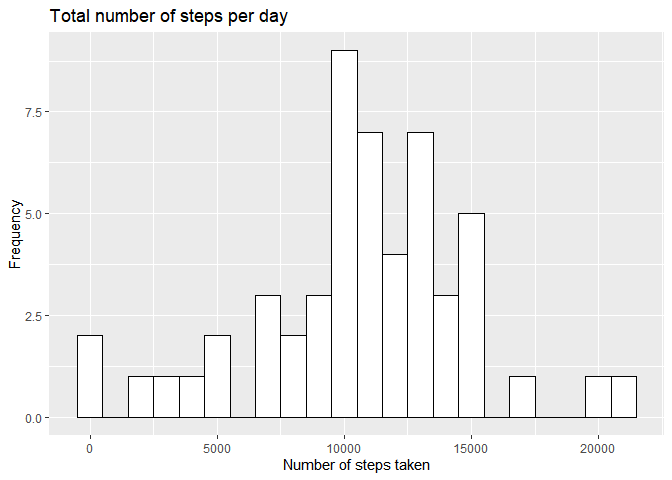
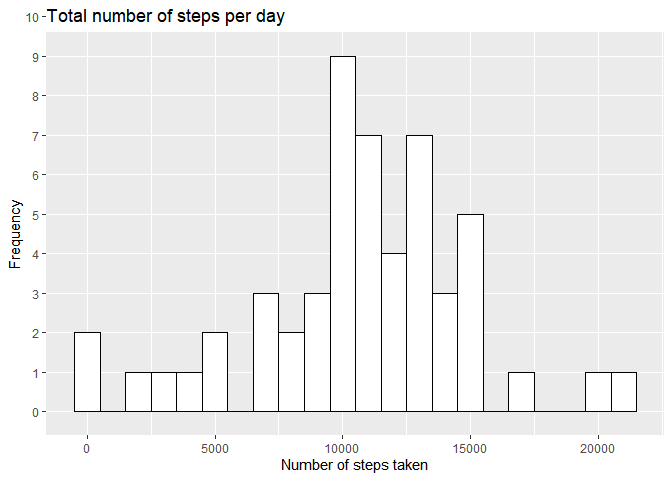
Added new lines after images, and uploaded images and hmtl files.

diff --git a/PA1_template.html b/PA1_template.html
@@ -409,22 +409,8 @@ measurement was taken. 3. interval (numeric), the time in the format
 HHMM<br />
 The interval column is used to extract the time, and this is combined
 with the date to create a datetime value.</p>
-<pre class="r"><code>stepsdf %&gt;%
+<pre class="r"><code>stepsdf &lt;- stepsdf %&gt;%
     mutate(datetime = date + hours((interval - (interval %% 100)) / 100) + minutes(interval %% 100))</code></pre>
-<pre><code>## # A tibble: 17,568 × 4
-##    steps date       interval datetime           
-##    &lt;dbl&gt; &lt;date&gt;        &lt;dbl&gt; &lt;dttm&gt;             
-##  1    NA 2012-10-01        0 2012-10-01 00:00:00
-##  2    NA 2012-10-01        5 2012-10-01 00:05:00
-##  3    NA 2012-10-01       10 2012-10-01 00:10:00
-##  4    NA 2012-10-01       15 2012-10-01 00:15:00
-##  5    NA 2012-10-01       20 2012-10-01 00:20:00
-##  6    NA 2012-10-01       25 2012-10-01 00:25:00
-##  7    NA 2012-10-01       30 2012-10-01 00:30:00
-##  8    NA 2012-10-01       35 2012-10-01 00:35:00
-##  9    NA 2012-10-01       40 2012-10-01 00:40:00
-## 10    NA 2012-10-01       45 2012-10-01 00:45:00
-## # … with 17,558 more rows</code></pre>
 </div>
 <div id="what-is-mean-total-number-of-steps-taken-per-day" class="section level2">
 <h2>What is mean total number of steps taken per day?</h2>
@@ -436,9 +422,11 @@ names(steps_per_day) &lt;- c(&quot;Date&quot;, &quot;Total_steps&quot;)</code></
 of steps taken on that day.<br />
 Now we will use ggplot to create a histogram:</p>
 <pre class="r"><code>g &lt;- ggplot(steps_per_day, aes(x = Total_steps))
-g + geom_histogram(binwidth = 1000, color = &#39;black&#39;, fill = &#39;white&#39;) + labs(title = &#39;Total number of steps per day&#39;, x = &#39;Number of steps taken&#39;, y = &#39;Frequency&#39;)</code></pre>
+g + geom_histogram(binwidth = 1000, color = &#39;black&#39;, fill = &#39;white&#39;) + scale_y_discrete(limits = seq(0, 10)) + labs(title = &#39;Total number of steps per day&#39;, x = &#39;Number of steps taken&#39;, y = &#39;Frequency&#39;)</code></pre>
+<pre><code>## Warning: Continuous limits supplied to discrete scale.
+## ℹ Did you mean `limits = factor(...)` or `scale_*_continuous()`?</code></pre>
 <pre><code>## Warning: Removed 8 rows containing non-finite values (`stat_bin()`).</code></pre>
[2 lines of base64/hex data omitted]
 <p>Next, we will calculate the mean and median number of total steps
 taken per day (so the sum of all steps taken daily).</p>
 <pre class="r"><code>cat(&#39;Mean:   &#39;, mean(steps_per_day$Total_steps, na.rm = TRUE), &quot;\n&quot;)</code></pre>
@@ -448,13 +436,91 @@ taken per day (so the sum of all steps taken daily).</p>
 </div>
 <div id="what-is-the-average-daily-activity-pattern" class="section level2">
 <h2>What is the average daily activity pattern?</h2>
+<pre class="r"><code>steps_per_interval &lt;- aggregate(stepsdf$steps, by=list(stepsdf$interval), mean, na.rm = TRUE)
+names(steps_per_interval) &lt;- c(&quot;Interval&quot;, &quot;Avg_steps&quot;)
+steps_per_interval &lt;- steps_per_interval %&gt;%
+    mutate(time = strptime((Interval - (Interval %% 100)) / 100, format = &quot;%H&quot;) + (Interval %% 100 * 60))
+
+g &lt;- ggplot(steps_per_interval, aes(x = time, y = Avg_steps))
+g + geom_line() + labs(title = &#39;Average number of steps by time of day&#39;, x = &#39;Time&#39;, y = &#39;Average number of steps&#39;) + scale_x_datetime(date_labels = &quot;%H:%M&quot;)</code></pre>
[1 lines of base64/hex data omitted]
 </div>
 <div id="imputing-missing-values" class="section level2">
 <h2>Imputing missing values</h2>
+<p>First we must identify how many missing values are present in the
+dataset:</p>
+<pre class="r"><code>str(stepsdf) # This indicates that date and interval are system/device generated, so they are unlikely to be missing </code></pre>
+<pre><code>## tibble [17,568 × 4] (S3: tbl_df/tbl/data.frame)
+##  $ steps   : num [1:17568] NA NA NA NA NA NA NA NA NA NA ...
+##  $ date    : Date[1:17568], format: &quot;2012-10-01&quot; &quot;2012-10-01&quot; ...
+##  $ interval: num [1:17568] 0 5 10 15 20 25 30 35 40 45 ...
+##  $ datetime: POSIXct[1:17568], format: &quot;2012-10-01 00:00:00&quot; &quot;2012-10-01 00:05:00&quot; ...</code></pre>
+<pre class="r"><code>table(is.na(stepsdf)) # 2304 missing values in 50400 total data points</code></pre>
+<pre><code>## 
+## FALSE  TRUE 
+## 67968  2304</code></pre>
+<pre class="r"><code>table(is.na(stepsdf$steps)) # This tells us that there are indeed 2304 missing values in &#39;steps&#39;.</code></pre>
+<pre><code>## 
+## FALSE  TRUE 
+## 15264  2304</code></pre>
+<p>From the average daily activity pattern, we can see that there are
+definitely differences in what the best replacement is. We will replace
+NA’s with the rounded average number of steps in the same interval. So,
+for example, if there is a measurement missing at the interval 835, we
+would replace it with 206. To achieve this, an extra column is added to
+stepsdf which repeats the average number of steps calculated in the
+previous part. This works because the intervals are ordered and repeat
+consistently.</p>
+<pre class="r"><code>stepsdf$avg_steps_this_interval &lt;- rep(round(steps_per_interval$Avg_steps), times = nrow(stepsdf) / nrow(steps_per_interval)) </code></pre>
+<p>Now all that is left to do is replace the NA’s in <em>steps</em> with
+the (rounded) value in <em>avg_steps_this_interval</em>, and store this
+in a new dataframe (stepsdf2).</p>
+<pre class="r"><code>stepsdf2 &lt;- stepsdf %&gt;%
+    mutate(steps = coalesce(steps, avg_steps_this_interval))</code></pre>
+<div id="analysis-of-the-effect-of-imputing-missing-data-values" class="section level3">
+<h3>Analysis of the effect of imputing missing data values</h3>
+<p>This is similar to the previous section <a href="#what-is-mean-total-number-of-steps-taken-per-day">What is mean
+total number of steps taken per day?</a> <em>Create aggregate column for
+sum of steps per day</em></p>
+<pre class="r"><code>steps_per_day2 &lt;- aggregate(stepsdf2$steps, by=list(stepsdf2$date), sum)
+names(steps_per_day2) &lt;- c(&quot;Date&quot;, &quot;Total_steps&quot;)</code></pre>
+<p><em>Create a histogram</em></p>
+<pre class="r"><code>g &lt;- ggplot(steps_per_day2, aes(x = Total_steps))
+g + geom_histogram(binwidth = 1000, color = &#39;black&#39;, fill = &#39;white&#39;) + scale_y_discrete(limits = seq(0, 15)) + labs(title = &#39;Total number of steps per day&#39;, x = &#39;Number of steps taken&#39;, y = &#39;Frequency&#39;)</code></pre>
+<pre><code>## Warning: Continuous limits supplied to discrete scale.
+## ℹ Did you mean `limits = factor(...)` or `scale_*_continuous()`?</code></pre>
[1 lines of base64/hex data omitted]
+<p><em>Calculate mean and median</em></p>
+<pre class="r"><code>cat(&#39;Mean:   &#39;, mean(steps_per_day2$Total_steps, na.rm = TRUE), &quot;\n&quot;)</code></pre>
+<pre><code>## Mean:    10765.64</code></pre>
+<pre class="r"><code>cat(&#39;Median: &#39;, median(steps_per_day2$Total_steps, na.rm = TRUE))</code></pre>
+<pre><code>## Median:  10762</code></pre>
+<p>There are minor differences (without imputation we get a mean of
+10766.19 and a median of 10765), but the differences are quite small. It
+is remarkable that with imputation we get 15 days of 11000 steps, and
+without only 7. ## Are there differences in activity patterns between
+weekdays and weekends? We create a column based on date that contains
+weekend/weekday as a factor.</p>
+<pre class="r"><code>stepsdf2 &lt;- stepsdf2 %&gt;%
+    mutate(Weekday = case_when(
+        strftime(date, format = &#39;%w&#39;) %in% c(0,6) ~ &#39;weekend&#39;, 
+        strftime(date, format = &#39;%w&#39;) %in% c(seq(1,5)) ~ &#39;weekday&#39;
+    ))
+stepsdf2$Weekday &lt;- as.factor(stepsdf2$Weekday)</code></pre>
+<p>Now we create a similar plot to what is done in<a href="#what-is-the-average-daily-activity-pattern">What is the average
+daily activity pattern?</a>, but we split the resulting panels based on
+weekday.</p>
+<pre class="r"><code>steps_per_interval2 &lt;- aggregate(steps ~ interval + Weekday, data = stepsdf2, mean, na.rm = TRUE)
+steps_per_interval2 &lt;- steps_per_interval2 %&gt;%
+    mutate(time = strptime((interval - (interval %% 100)) / 100, format = &quot;%H&quot;) + (interval %% 100 * 60))
+
+g &lt;- ggplot(steps_per_interval2, aes(x = time, y = steps))
+g + geom_line() + labs(title = &#39;Average number of steps by time of day&#39;, x = &#39;Time&#39;, y = &#39;Average number of steps&#39;) + scale_x_datetime(date_labels = &quot;%H:%M&quot;) + facet_grid(.~Weekday)</code></pre>
[1 lines of base64/hex data omitted]
+<p>In this plot we can see side by side that on weekdays there is a
+spike around 8AM on weekdays that is less prevalent on weekends, while
+on weekends there is a more consistent activity throughout the day.</p>
 </div>
-<div id="are-there-differences-in-activity-patterns-between-weekdays-and-weekends" class="section level2">
-<h2>Are there differences in activity patterns between weekdays and
-weekends?</h2>
 </div>
 
 

diff --git a/PA1_template.md b/PA1_template.md
@@ -1,8 +1,9 @@
 ---
-title: "Reproducible Research: Peer Assessment 1"
-output: 
+title: 'Reproducible Research: Peer Assessment 1'
+output:
   html_document:
-    keep_md: true
+    keep_md: yes
+  pdf_document: default
 ---
 
 ## Loading required packages
@@ -112,25 +113,8 @@ Stepsdf contains three columns:
 The interval column is used to extract the time, and this is combined with the date to create a datetime value.
 
 ```r
-stepsdf %>%
+stepsdf <- stepsdf %>%
     mutate(datetime = date + hours((interval - (interval %% 100)) / 100) + minutes(interval %% 100))
-```
-
-```
-## # A tibble: 17,568 × 4
-##    steps date       interval datetime           
-##    <dbl> <date>        <dbl> <dttm>             
-##  1    NA 2012-10-01        0 2012-10-01 00:00:00
-##  2    NA 2012-10-01        5 2012-10-01 00:05:00
-##  3    NA 2012-10-01       10 2012-10-01 00:10:00
-##  4    NA 2012-10-01       15 2012-10-01 00:15:00
-##  5    NA 2012-10-01       20 2012-10-01 00:20:00
-##  6    NA 2012-10-01       25 2012-10-01 00:25:00
-##  7    NA 2012-10-01       30 2012-10-01 00:30:00
-##  8    NA 2012-10-01       35 2012-10-01 00:35:00
-##  9    NA 2012-10-01       40 2012-10-01 00:40:00
-## 10    NA 2012-10-01       45 2012-10-01 00:45:00
-## # … with 17,558 more rows
 ```
 
 ## What is mean total number of steps taken per day?
@@ -145,7 +129,12 @@ Now we will use ggplot to create a histogram:
 
 ```r
 g <- ggplot(steps_per_day, aes(x = Total_steps))
-g + geom_histogram(binwidth = 1000, color = 'black', fill = 'white') + labs(title = 'Total number of steps per day', x = 'Number of steps taken', y = 'Frequency')
+g + geom_histogram(binwidth = 1000, color = 'black', fill = 'white') + scale_y_discrete(limits = seq(0, 10)) + labs(title = 'Total number of steps per day', x = 'Number of steps taken', y = 'Frequency')
+```
+
+```
+## Warning: Continuous limits supplied to discrete scale.
+## ℹ Did you mean `limits = factor(...)` or `scale_*_continuous()`?
 ```
 
 ```
@@ -174,10 +163,127 @@ cat('Median: ', median(steps_per_day$Total_steps, na.rm = TRUE))
 
 ## What is the average daily activity pattern?
 
+```r
+steps_per_interval <- aggregate(stepsdf$steps, by=list(stepsdf$interval), mean, na.rm = TRUE)
+names(steps_per_interval) <- c("Interval", "Avg_steps")
+steps_per_interval <- steps_per_interval %>%
+    mutate(time = strptime((Interval - (Interval %% 100)) / 100, format = "%H") + (Interval %% 100 * 60))
 
+g <- ggplot(steps_per_interval, aes(x = time, y = Avg_steps))
+g + geom_line() + labs(title = 'Average number of steps by time of day', x = 'Time', y = 'Average number of steps') + scale_x_datetime(date_labels = "%H:%M")
+```
+
+![](PA1_template_files/figure-html/unnamed-chunk-7-1.png)<!-- -->
+  
 
 ## Imputing missing values
+First we must identify how many missing values are present in the dataset:
 
+```r
+str(stepsdf) # This indicates that date and interval are system/device generated, so they are unlikely to be missing 
+```
 
+```
+## tibble [17,568 × 4] (S3: tbl_df/tbl/data.frame)
+##  $ steps   : num [1:17568] NA NA NA NA NA NA NA NA NA NA ...
+##  $ date    : Date[1:17568], format: "2012-10-01" "2012-10-01" ...
+##  $ interval: num [1:17568] 0 5 10 15 20 25 30 35 40 45 ...
+##  $ datetime: POSIXct[1:17568], format: "2012-10-01 00:00:00" "2012-10-01 00:05:00" ...
+```
 
+```r
+table(is.na(stepsdf)) # 2304 missing values in 50400 total data points
+```
+
+```
+## 
+## FALSE  TRUE 
+## 67968  2304
+```
+
+```r
+table(is.na(stepsdf$steps)) # This tells us that there are indeed 2304 missing values in 'steps'.
+```
+
+```
+## 
+## FALSE  TRUE 
+## 15264  2304
+```
+From the average daily activity pattern, we can see that there are definitely differences in what the best replacement is. We will replace NA's with the rounded average number of steps in the same interval. So, for example, if there is a measurement missing at the interval 835, we would replace it with 206. 
+To achieve this, an extra column is added to stepsdf which repeats the average number of steps calculated in the previous part. This works because the intervals are ordered and repeat consistently.  
+
+```r
+stepsdf$avg_steps_this_interval <- rep(round(steps_per_interval$Avg_steps), times = nrow(stepsdf) / nrow(steps_per_interval)) 
+```
+Now all that is left to do is replace the NA's in *steps* with the (rounded) value in *avg_steps_this_interval*, and store this in a new dataframe (stepsdf2).
+
+```r
+stepsdf2 <- stepsdf %>%
+    mutate(steps = coalesce(steps, avg_steps_this_interval))
+```
+### Analysis of the effect of imputing missing data values
+This is similar to the previous section [What is mean total number of steps taken per day?]
+*Create aggregate column for sum of steps per day*  
+
+```r
+steps_per_day2 <- aggregate(stepsdf2$steps, by=list(stepsdf2$date), sum)
+names(steps_per_day2) <- c("Date", "Total_steps")
+```
+*Create a histogram*  
+
+```r
+g <- ggplot(steps_per_day2, aes(x = Total_steps))
+g + geom_histogram(binwidth = 1000, color = 'black', fill = 'white') + scale_y_discrete(limits = seq(0, 15)) + labs(title = 'Total number of steps per day', x = 'Number of steps taken', y = 'Frequency')
+```
+
+```
+## Warning: Continuous limits supplied to discrete scale.
+## ℹ Did you mean `limits = factor(...)` or `scale_*_continuous()`?
+```
+
+![](PA1_template_files/figure-html/unnamed-chunk-12-1.png)<!-- -->
+  
+*Calculate mean and median*
+
+```r
+cat('Mean:   ', mean(steps_per_day2$Total_steps, na.rm = TRUE), "\n")
+```
+
+```
+## Mean:    10765.64
+```
+
+```r
+cat('Median: ', median(steps_per_day2$Total_steps, na.rm = TRUE))
+```
+
+```
+## Median:  10762
+```
+There are minor differences (without imputation we get a mean of 10766.19 and a median of 10765), but the differences are quite small. It is remarkable that with imputation we get 15 days of 11000 steps, and without only 7.
 ## Are there differences in activity patterns between weekdays and weekends?
+We create a column based on date that contains weekend/weekday as a factor.
+
+```r
+stepsdf2 <- stepsdf2 %>%
+    mutate(Weekday = case_when(
+        strftime(date, format = '%w') %in% c(0,6) ~ 'weekend', 
+        strftime(date, format = '%w') %in% c(seq(1,5)) ~ 'weekday'
+    ))
+stepsdf2$Weekday <- as.factor(stepsdf2$Weekday)
+```
+Now we create a similar plot to what is done in[What is the average daily activity pattern?], but we split the resulting panels based on weekday.  
+
+```r
+steps_per_interval2 <- aggregate(steps ~ interval + Weekday, data = stepsdf2, mean, na.rm = TRUE)
+steps_per_interval2 <- steps_per_interval2 %>%
+    mutate(time = strptime((interval - (interval %% 100)) / 100, format = "%H") + (interval %% 100 * 60))
+
+g <- ggplot(steps_per_interval2, aes(x = time, y = steps))
+g + geom_line() + labs(title = 'Average number of steps by time of day', x = 'Time', y = 'Average number of steps') + scale_x_datetime(date_labels = "%H:%M") + facet_grid(.~Weekday)
+```
+
+![](PA1_template_files/figure-html/unnamed-chunk-15-1.png)<!-- -->
+  
+In this plot we can see side by side that on weekdays there is a spike around 8AM on weekdays that is less prevalent on weekends, while on weekends there is a more consistent activity throughout the day. 
